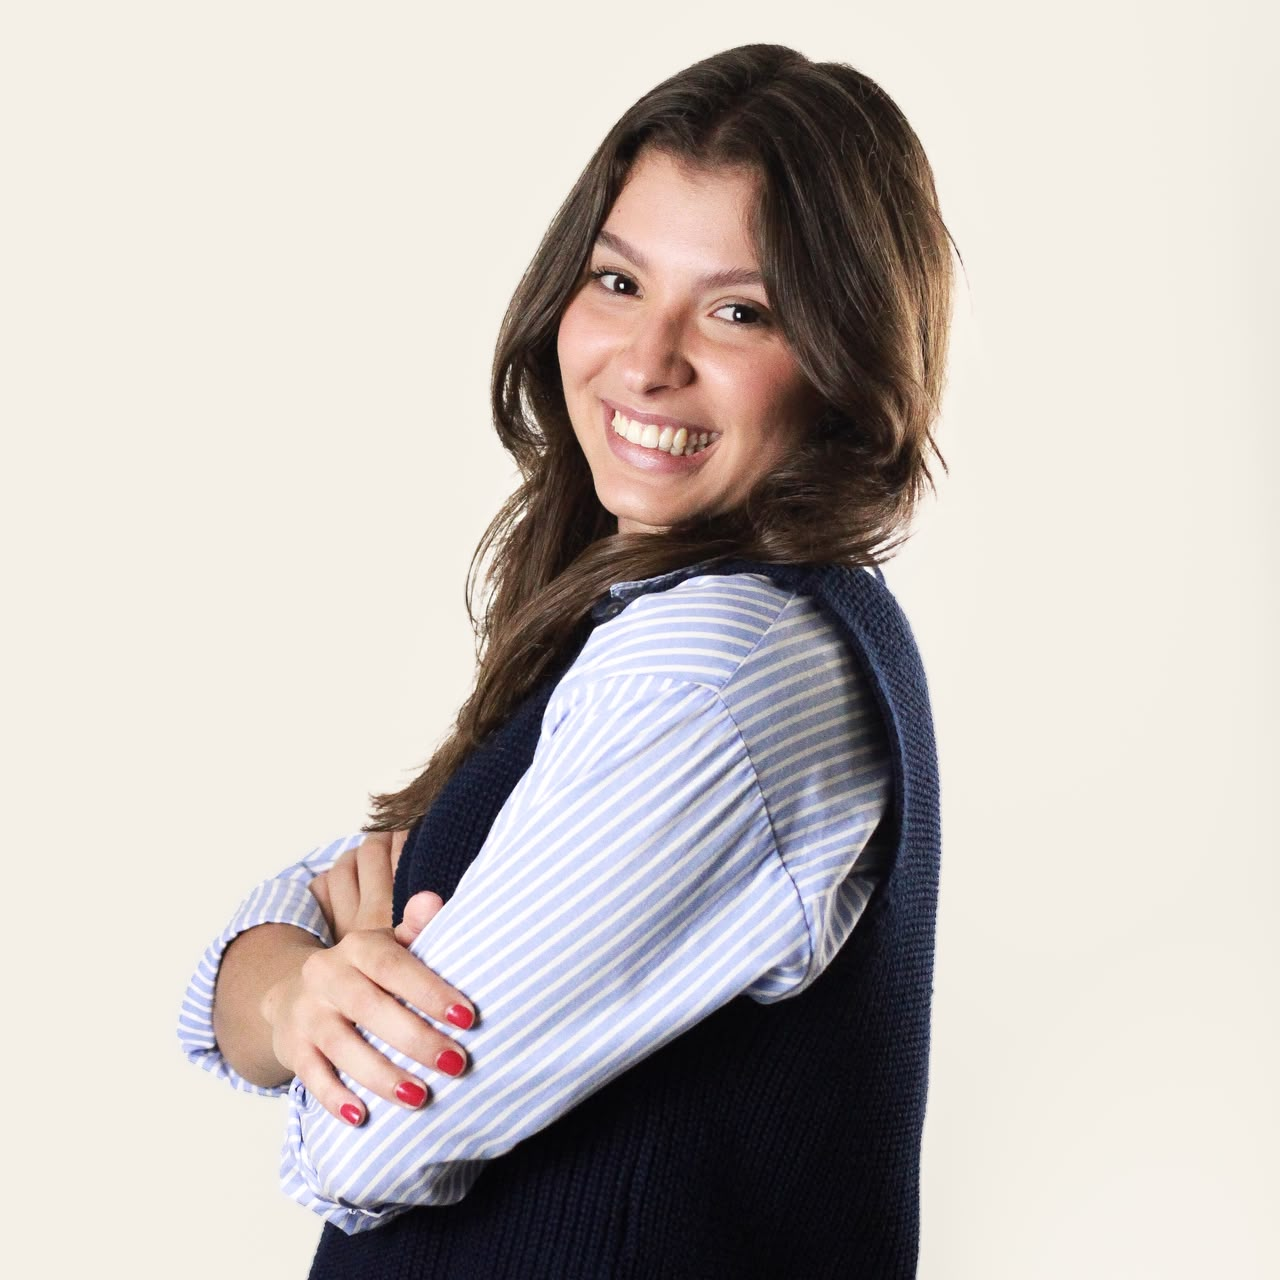
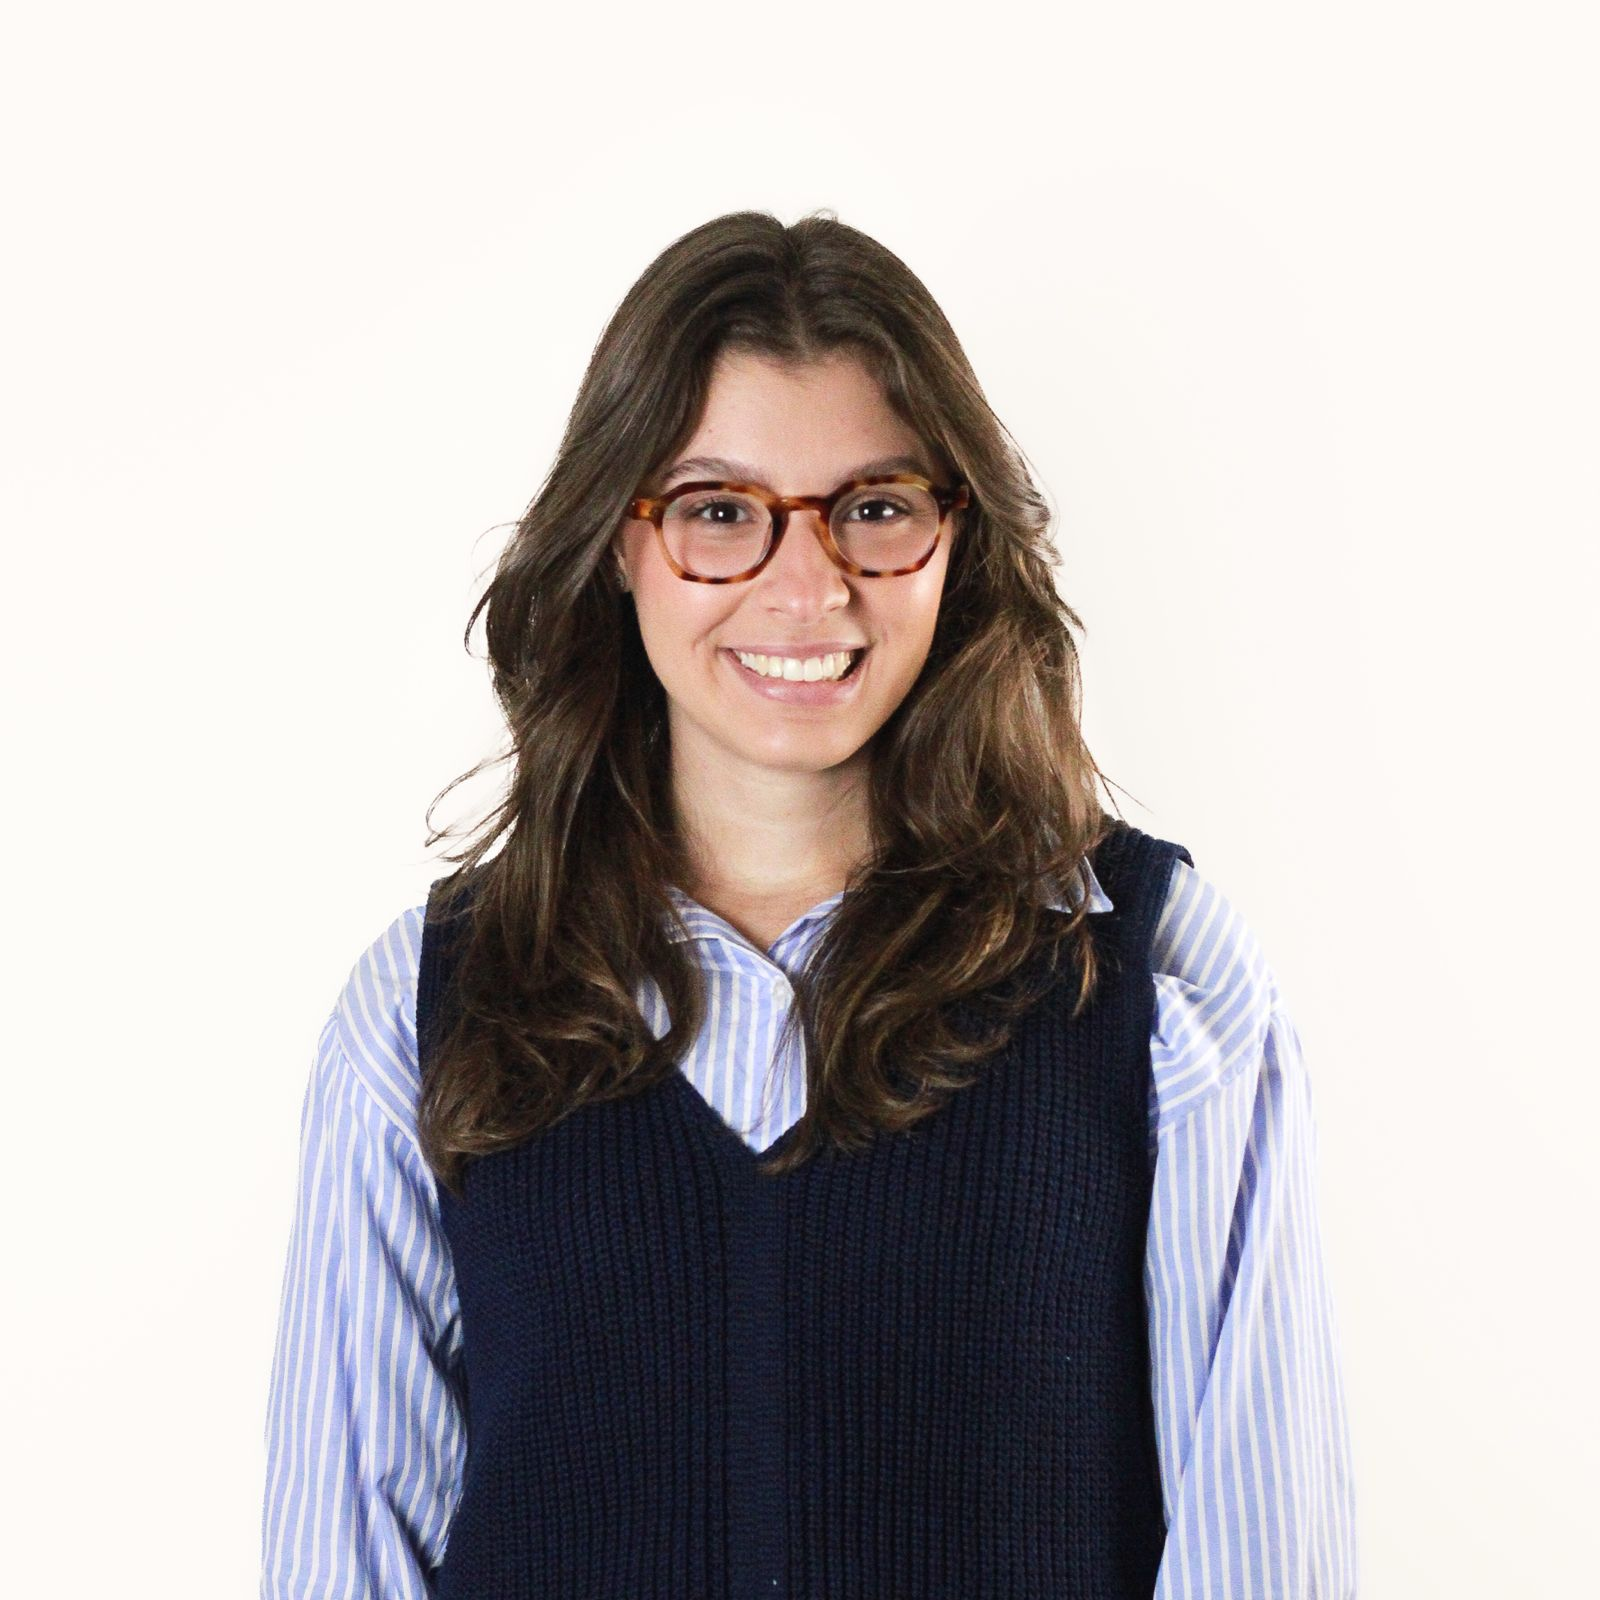
Site Clara: contatos reais, foto nova na capa e menu em linha unica
WhatsApp e Instagram entraram em lib/clara.ts, entao o botao da capa, o
flutuante, o "Agendar consulta", o formulario, a lista de contato e o rodape
nasceram sozinhos. O link do QR fica de reserva: com o numero preenchido o
wa.me classico tem prioridade, porque e o unico formato que garante a
mensagem ja escrita chegando montada.

Foto nova na capa, 1600x1600. A anterior virou assets/clara-capa-anterior.jpeg.

O resto e o que ela pediu vendo o site rodando: o ultimo paragrafo de "Sobre
mim" estava com text-tinta enquanto os outros herdavam text-tinta-media, as
fotos de "Sobre mim" e "Cada fase" pararam de flutuar, os rotulos "Passo N"
sairam da trilha sem mexer na formatacao dela, as duvidas abrem com "Antes de
comecar..." e o bloco "Canais de atendimento" foi removido.

No cabecalho, whitespace-nowrap sozinho nao resolvia: em linha unica os cinco
itens pedem 589px fixos e a conta nao fechava em 1280. A profissao e o CRP
somem na faixa apertada, porque sao o unico elemento do cabecalho que ja
aparece na capa e no rodape, e o menu horizontal passou a entrar so em 1100px.

diff --git a/clientes/clara-biscarde/site/app/page.tsx b/clientes/clara-biscarde/site/app/page.tsx
@@ -20,7 +20,6 @@ import { ScrollSuave } from "@/components/scroll-suave";
 import { Entrada } from "@/components/entrada";
 import { FaixaInfo } from "@/components/faixa-info";
 import { QuebraSimples } from "@/components/quebra-simples";
-import { FotoFlutuante } from "@/components/foto-flutuante";
 import { FormularioContato } from "@/components/formulario-contato";
 import {
   Coracao,
@@ -199,7 +198,7 @@ export default function Home() {
                     parte desse processo, construindo caminhos possíveis para os
                     desafios do cotidiano.
                   </p>
-                  <p className="text-tinta">
+                  <p>
                     Sou psicóloga formada pela Escola Bahiana de Medicina e
                     Saúde Pública e pós-graduanda em Terapia
                     Cognitivo-Comportamental pelo INTCC. Atuo com crianças,
@@ -209,17 +208,16 @@ export default function Home() {
               </div>
 
               <div className="col-span-12 md:col-span-5">
-                <FotoFlutuante duracao={7.5}>
-                  <div className="relative aspect-[4/5] w-full overflow-hidden">
-                    <Image
-                      src="/clara-3.jpeg"
-                      alt={`${clara.nome} no consultório`}
-                      fill
-                      sizes="(min-width: 768px) 40vw, 100vw"
-                      className="object-cover"
-                    />
-                  </div>
-                </FotoFlutuante>
+                {/* Foto parada. A flutuação daqui foi retirada a pedido dela. */}
+                <div className="relative aspect-[4/5] w-full overflow-hidden">
+                  <Image
+                    src="/clara-3.jpeg"
+                    alt={`${clara.nome} no consultório`}
+                    fill
+                    sizes="(min-width: 768px) 40vw, 100vw"
+                    className="object-cover"
+                  />
+                </div>
               </div>
             </SectionReveal>
           </Faixa>
@@ -236,20 +234,15 @@ export default function Home() {
           <Faixa>
             <SectionReveal className="grid grid-cols-12 items-center gap-y-10 md:gap-x-14">
               <div className="col-span-12 md:col-span-4">
-                <FotoFlutuante
-                  className="hidden md:block"
-                  duracao={8.5}
-                  atraso={0.8}
-                >
-                  <Image
-                    src="/clara-1.jpeg"
-                    sizes="(min-width: 768px) 30vw, 100vw"
-                    alt={clara.nome}
-                    width={960}
-                    height={1280}
-                    className="folha-alt h-full w-full object-cover"
-                  />
-                </FotoFlutuante>
+                {/* Foto parada. A flutuação daqui foi retirada a pedido dela. */}
+                <Image
+                  src="/clara-1.jpeg"
+                  sizes="(min-width: 768px) 30vw, 100vw"
+                  alt={clara.nome}
+                  width={960}
+                  height={1280}
+                  className="folha-alt hidden h-full w-full object-cover md:block"
+                />
               </div>
 
               <div className="col-span-12 md:col-span-8">
@@ -438,7 +431,7 @@ export default function Home() {
             <SectionReveal>
               <Etiqueta>Dúvidas</Etiqueta>
               <h2 className="mt-6 max-w-[24ch] font-display text-titulo font-normal leading-[1.12] tracking-[-0.015em]">
-                Perguntas que costumam vir antes da primeira conversa
+                Antes de começar…
               </h2>
             </SectionReveal>
 
@@ -505,9 +498,10 @@ export default function Home() {
               )}
             </div>
 
-            {/* Central de canais, secundária. Cada linha só existe se o dado existir. */}
-            <div className="mx-auto mt-14 max-w-[34rem]">
-              {temContato ? (
+            {/* Central de canais, secundária. Cada linha só existe se o dado existir.
+                Sem nenhum canal cadastrado a lista inteira some, sem aviso no lugar. */}
+            {temContato && (
+              <div className="mx-auto mt-14 max-w-[34rem]">
                 <dl className="divide-y divide-borda border-y border-borda">
                   {links.whatsapp && (
                     <div className="flex flex-col gap-1 py-5 sm:flex-row sm:items-baseline sm:justify-center sm:gap-8">
@@ -521,7 +515,10 @@ export default function Home() {
                           rel="noopener noreferrer"
                           className="text-tinta underline decoration-coral decoration-2 underline-offset-4"
                         >
-                          {telefoneLegivel(clara.whatsapp)}
+                          {/* Sem o número dela, o link não vira texto vazio:
+                              vira o convite para abrir a conversa. */}
+                          {telefoneLegivel(clara.whatsapp) ??
+                            "Abrir a conversa"}
                         </a>
                       </dd>
                     </div>
@@ -593,20 +590,8 @@ export default function Home() {
                     </div>
                   )}
                 </dl>
-              ) : (
-                /* Sem nenhum canal cadastrado, o bloco não inventa contato. */
-                <div className="rounded-bloco border border-dashed border-coral/60 p-8 text-center">
-                  <p className="text-micro uppercase tracking-[0.18em] text-coral-texto">
-                    Canais de atendimento
-                  </p>
-                  <p className="mx-auto mt-3 max-w-[40ch] leading-[1.7] text-tinta-media">
-                    WhatsApp, e-mail e Instagram entram aqui assim que forem
-                    cadastrados em <code>lib/clara.ts</code>. Enquanto não
-                    existirem, nenhum contato é exibido nem inventado.
-                  </p>
-                </div>
-              )}
-            </div>
+              </div>
+            )}
           </Faixa>
         </section>
 

diff --git a/clientes/clara-biscarde/site/lib/clara.ts b/clientes/clara-biscarde/site/lib/clara.ts
@@ -14,10 +14,19 @@ export const clara = {
   cidade: "Salvador" as string | null,
   estado: "BA" as string | null,
 
-  whatsapp: null as string | null, // "5571999999999"
+  /** Número puro, só dígitos com DDI. */
+  whatsapp: "5571999132904" as string | null,
+
+  /**
+   * Link de convite do WhatsApp, o que veio do QR code. Fica de reserva:
+   * com o número acima preenchido, o wa.me clássico tem prioridade porque
+   * é o único formato que garante a mensagem já escrita.
+   */
+  whatsappLink: "https://wa.me/qr/6KU5S74BUCQOA1" as string | null,
+
   telefone: null as string | null,
   email: null as string | null,
-  instagram: null as string | null, // só o usuário, sem @
+  instagram: "psiclarabiscarde" as string | null, // só o usuário, sem @
   endereco: null as string | null,
   horario: null as string | null,
 
@@ -26,20 +35,34 @@ export const clara = {
    * Enquanto não existir, o hero renderiza o painel de reserva.
    */
   retrato: "/clara.jpg" as string | null,
-  retratoLargura: 1280,
-  retratoAltura: 1280,
+  retratoLargura: 1600,
+  retratoAltura: 1600,
 } as const;
 
 const MENSAGEM =
   "Oi Clara, vim pelo site e queria saber sobre atendimento pro meu filho";
 
+/**
+ * Monta o destino do WhatsApp com a mensagem já escrita.
+ *
+ * Com o número, é o wa.me clássico e o texto chega garantido. Sem ele, sobra o
+ * link de convite do QR: abre a conversa certa, e o `text` vai junto na
+ * tentativa de aproveitar, mas o WhatsApp pode descartar nesse formato. Quando
+ * o número dela chegar, preencher `clara.whatsapp` resolve os dois casos.
+ */
+export function whatsappCom(texto: string): string | null {
+  const parametro = `?text=${encodeURIComponent(texto)}`;
+  if (clara.whatsapp) return `https://wa.me/${clara.whatsapp}${parametro}`;
+  if (clara.whatsappLink) return `${clara.whatsappLink}${parametro}`;
+  return null;
+}
+
 export const links = {
   /** wa.me abre o app no celular e o WhatsApp Web no computador. */
-  whatsapp: clara.whatsapp
-    ? `https://wa.me/${clara.whatsapp}?text=${encodeURIComponent(MENSAGEM)}`
-    : null,
+  whatsapp: whatsappCom(MENSAGEM),
 
-  /** Força o WhatsApp Web, para quem está no computador sem o app. */
+  /** Força o WhatsApp Web, para quem está no computador sem o app.
+      Só existe com o número: essa rota não aceita link de convite. */
   whatsappWeb: clara.whatsapp
     ? `https://web.whatsapp.com/send?phone=${clara.whatsapp}&text=${encodeURIComponent(MENSAGEM)}`
     : null,
@@ -170,7 +193,6 @@ export const modalidades = [
 export const caminho = [
   {
     desenho: "conversa" as const,
-    tipo: "Passo 1",
     rotulo: "Primeiro contato",
     titulo: "Primeiro contato",
     texto:
@@ -178,7 +200,6 @@ export const caminho = [
   },
   {
     desenho: "ponte" as const,
-    tipo: "Passo 2",
     rotulo: "Conversa com responsáveis",
     titulo: "Conversa com responsáveis",
     texto:
@@ -186,7 +207,6 @@ export const caminho = [
   },
   {
     desenho: "bussola" as const,
-    tipo: "Passo 3",
     rotulo: "Conhecendo a criança ou adolescente",
     titulo: "Conhecendo a criança ou adolescente",
     texto:
@@ -194,7 +214,6 @@ export const caminho = [
   },
   {
     desenho: "bandeira" as const,
-    tipo: "Passo 4",
     rotulo: "Construímos o caminho juntos",
     titulo: "Construímos o caminho juntos",
     texto:
@@ -202,7 +221,6 @@ export const caminho = [
   },
   {
     desenho: "casa" as const,
-    tipo: "Passo 5",
     rotulo: "A família também faz parte",
     titulo: "A família também faz parte",
     texto:

diff --git a/clientes/clara-biscarde/site/components/cabecalho.tsx b/clientes/clara-biscarde/site/components/cabecalho.tsx
@@ -113,7 +113,10 @@ export function Cabecalho() {
                 encolhido ? "h-9" : "h-12",
               )}
             />
-            <span className="hidden border-l border-borda pl-3.5 leading-[1.35] sm:block">
+            {/* Some na faixa em que o menu horizontal disputa espaço: a profissão
+                e o CRP já aparecem na capa e no rodapé, o menu não tem onde
+                mais aparecer. */}
+            <span className="hidden border-l border-borda pl-3.5 leading-[1.35] sm:max-[1099px]:block 2xl:block">
               <span className="block text-micro uppercase tracking-[0.16em] text-tinta-media">
                 {clara.profissao}
               </span>
@@ -126,12 +129,21 @@ export function Cabecalho() {
           <Redes encolhido={encolhido} />
         </div>
 
-        <nav className="hidden items-center gap-8 lg:flex">
+        {/*
+          whitespace-nowrap para "Sobre mim" e "Como começa" não quebrarem em
+          duas linhas.
+
+          Em linha única os cinco itens pedem 589px fixos, e isso muda onde o
+          menu horizontal cabe. Abaixo de 1100px não cabe de jeito nenhum ao
+          lado da assinatura e do botão, então ali é o hambúrguer que atende.
+          Daí para cima o gap abre junto com a tela.
+        */}
+        <nav className="hidden items-center gap-4 min-[1100px]:flex xl:gap-6 2xl:gap-8">
           {menu.map((item) => (
             <a
               key={item.href}
               href={item.href}
-              className="text-mini uppercase tracking-[0.14em] text-tinta-media transition-colors hover:text-coral-texto"
+              className="whitespace-nowrap text-mini uppercase tracking-[0.14em] text-tinta-media transition-colors hover:text-coral-texto"
             >
               {item.rotulo}
             </a>
@@ -156,7 +168,7 @@ export function Cabecalho() {
             aria-expanded={aberto}
             aria-label="Abrir menu"
             /* 44px é o mínimo confortável para o dedo. Antes eram 36. */
-            className="-mr-2 flex h-11 w-11 flex-col items-center justify-center gap-[5px] lg:hidden"
+            className="-mr-2 flex h-11 w-11 flex-col items-center justify-center gap-[5px] min-[1100px]:hidden"
           >
             <span className="h-px w-5 bg-tinta" />
             <span className="h-px w-5 bg-tinta" />
@@ -165,7 +177,7 @@ export function Cabecalho() {
       </div>
 
       {aberto && (
-        <nav className="mt-3 border-t border-borda px-6 pb-2 pt-4 lg:hidden">
+        <nav className="mt-3 border-t border-borda px-6 pb-2 pt-4 min-[1100px]:hidden">
           <ul className="flex flex-col gap-4">
             {menu.map((item) => (
               <li key={item.href}>

diff --git a/clientes/clara-biscarde/site/components/jornada.tsx b/clientes/clara-biscarde/site/components/jornada.tsx
@@ -27,7 +27,8 @@ import { TrilhaDragao } from "@/components/trilha-dragao";
 
 export interface ParadaJornada {
   desenho: "conversa" | "casa" | "ponte" | "bussola" | "bandeira";
-  tipo: string;
+  /** Opcional. Sem ele a parada mostra só o rótulo, sem "Passo N" em cima. */
+  tipo?: string;
   rotulo: string;
   titulo: string;
   texto: string;
@@ -117,14 +118,16 @@ export function Jornada({ paradas }: { paradas: ParadaJornada[] }) {
                     </motion.span>
 
                     <span className="flex flex-col items-center gap-1">
-                      <span
-                        className={cn(
-                          "text-micro uppercase tracking-[0.14em] transition-colors",
-                          atual ? "text-coral-texto" : "text-tinta-media"
-                        )}
-                      >
-                        {p.tipo}
-                      </span>
+                      {p.tipo && (
+                        <span
+                          className={cn(
+                            "text-micro uppercase tracking-[0.14em] transition-colors",
+                            atual ? "text-coral-texto" : "text-tinta-media"
+                          )}
+                        >
+                          {p.tipo}
+                        </span>
+                      )}
                       <span
                         className={cn(
                           "max-w-[15ch] text-center text-mini leading-[1.3] transition-colors",
@@ -194,10 +197,12 @@ export function Jornada({ paradas }: { paradas: ParadaJornada[] }) {
                 </span>
 
                 <span className="min-w-0 flex-1">
-                  <span className="block text-micro uppercase tracking-[0.14em] text-coral-texto">
-                    {p.tipo}
-                  </span>
-                  <span className="mt-0.5 block font-display text-medio leading-[1.25] text-oliva-texto">
+                  {p.tipo && (
+                    <span className="block text-micro uppercase tracking-[0.14em] text-coral-texto">
+                      {p.tipo}
+                    </span>
+                  )}
+                  <span className="block font-display text-medio leading-[1.25] text-oliva-texto">
                     {p.rotulo}
                   </span>
                 </span>

diff --git a/clientes/clara-biscarde/site/components/formulario-contato.tsx b/clientes/clara-biscarde/site/components/formulario-contato.tsx
@@ -17,7 +17,7 @@
  */
 
 import { useId, useState } from "react";
-import { clara } from "@/lib/clara";
+import { whatsappCom } from "@/lib/clara";
 
 const ATENDIMENTOS = ["Criança", "Adolescente", "Ainda não sei"];
 
@@ -34,11 +34,6 @@ export function FormularioContato() {
 
   const enviar = (e: React.FormEvent<HTMLFormElement>) => {
     e.preventDefault();
-
-    if (!clara.whatsapp) {
-      setPendente(true);
-      return;
-    }
 
     const dados = new FormData(e.currentTarget);
     const valor = (nome: string) => String(dados.get(nome) ?? "").trim();
@@ -57,9 +52,12 @@ export function FormularioContato() {
     const recado = valor("mensagem");
     if (recado) blocos.push(recado);
 
-    const url = `https://wa.me/${clara.whatsapp}?text=${encodeURIComponent(
-      blocos.join("\n\n"),
-    )}`;
+    const url = whatsappCom(blocos.join("\n\n"));
+    if (!url) {
+      setPendente(true);
+      return;
+    }
+
     window.open(url, "_blank", "noopener,noreferrer");
   };
 
